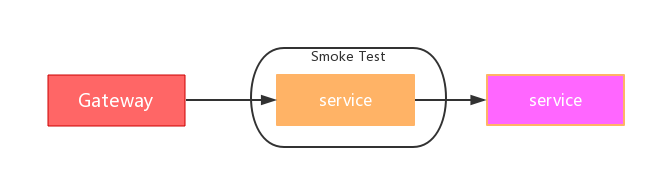
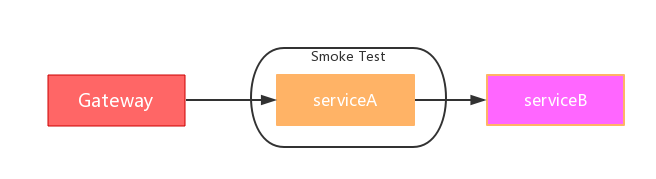
add smoke test

Changed region(s): [[0.7927, 0.5307, 0.9146, 0.6145], [0.4573, 0.5307, 0.5793, 0.6145]]

diff --git a/_posts/technology/micro-service/2018-12-10-06-test-in-micro-service-03-smoke-test.md b/_posts/technology/micro-service/2018-12-10-06-test-in-micro-service-03-smoke-test.md
@@ -1,0 +1,155 @@
+---
+layout: post
+title:  微服务架构下的测试之(三)-冒烟測試
+date:   2018-12-10 09:58:00 +0800
+categories: 技术文档
+tag: 微服务
+---
+
+* content
+{:toc}
+
+
+冒烟測試（Smoke Test）
+=============
+
+冒烟測試（Smoke Test） ： 这一术语源自硬件行业。对一个硬件或硬件组件进行更改或修复后，直接给设备加电。如果没有冒烟，则该组件就通过了测试。在软件中，冒烟测试设计用于确认代码中的更改会按预期运行，且不会破坏整个版本的稳定性。
+
+在微服務的架構下，我們可以使用冒烟測試來保證单个微服务在不依赖其他服务（其他服务在此处包含其他微服务或者其他的中间件）的前提下，其本身是正常运行的。
+
+
+测试方案
+=============
+
+举个例子，我们有三个微服务，一个是Gateway， 一个是ServiceA， 一个是ServiceB，它们的调用关系如下图。 现在要上线的是ServiceA，我们需要保证的是在不依赖ServiceB的情况下，ServiceA可以正常启动，部署和运行。
+
+![](/images/blog/micro-service/06-smoke-test/01-Smoke-Test.png)
+
+针对冒烟测试可以搭配使用[MockMvc](https://docs.spring.io/spring/docs/current/spring-framework-reference/testing.html)和[WireMock](http://wiremock.org/)来实现。
+
+
+项目代码
+=============
+
+还是拿之前的Product项目来说明，ProductService是维护商品信息的，其中的Controller层代码如下。
+
+ProductController
+-------------
+
+{% highlight java %}
+@RestController
+@RequestMapping("/product")
+public class ProductController {
+
+	@Autowired
+	private ProductService productService;
+
+	@PostMapping("/all")
+	public @ResponseBody List<Product> getProduct(@RequestBody List<Integer> productIds) {
+		return productService.getProducts(productIds);
+	}
+
+}
+{% endhighlight %}
+
+
+测试代码
+=============
+
+那么我们就可以使用 [MockMVC](https://docs.spring.io/spring/docs/current/spring-framework-reference/testing.html) 对这个项目进行测试，如下
+
+pom.xml
+-------------
+
+{% highlight xml %}
+<dependency>
+	<groupId>org.springframework.boot</groupId>
+	<artifactId>spring-boot-starter-test</artifactId>
+	<scope>test</scope>
+</dependency>
+<dependency>
+	<groupId>com.github.tomakehurst</groupId>
+	<artifactId>wiremock</artifactId>
+	<version>2.1.12</version>
+	<scope>test</scope>
+</dependency>
+{% endhighlight %}
+
+ProductControllerTest.java
+-------------
+
+{% highlight java %}
+package com.freud.test.product.ut.controller;
+
+import java.util.ArrayList;
+import java.util.List;
+
+import org.junit.Assert;
+import org.junit.Test;
+import org.junit.runner.RunWith;
+import org.mockito.InjectMocks;
+import org.mockito.Mock;
+import org.mockito.Mockito;
+import org.mockito.junit.MockitoJUnitRunner;
+
+import com.freud.test.product.bean.Product;
+import com.freud.test.product.controller.ProductController;
+import com.freud.test.product.service.ProductService;
+
+@RunWith(MockitoJUnitRunner.class)
+public class ProductControllerTest {
+
+	@InjectMocks
+	private ProductController productController;
+
+	@Mock
+	private ProductService productService;
+
+	@Test
+	public void testGetProduct() {
+
+		List<Product> products = new ArrayList<Product>();
+		Product p1 = new Product();
+		p1.setId(1);
+		p1.setName("Shoes");
+		p1.setDescription("Beautiful shoes");
+		p1.setStorage(10);
+		products.add(p1);
+
+		Product p2 = new Product();
+		p2.setId(2);
+		p2.setName("T-shirt");
+		p2.setDescription("Cheap T-shirt");
+		p2.setStorage(20);
+		products.add(p2);
+		Mockito.when(productService.getProducts(Mockito.any(List.class))).thenReturn(products);
+
+		List<Integer> productIds = new ArrayList<>();
+		productIds.add(new Integer(1));
+		productIds.add(new Integer(2));
+
+		List<Product> response = productController.getProduct(productIds);
+
+		Assert.assertNotNull(response);
+		Assert.assertEquals(2, response.size());
+		Assert.assertEquals(new Integer(1), response.get(0).getId());
+		Assert.assertEquals(new Integer(2), response.get(1).getId());
+	}
+}
+{% endhighlight %}
+
+
+完整代码
+=============
+
+请参照 GITHUB [ProductControllerTest.java](https://github.com/luoyan35714/TestInMicroServices/blob/master/ms-product/src/test/java/com/freud/test/product/ut/controller/ProductControllerTest.java)
+
+
+參考資料
+=============
+
+单元测试 : [https://baike.baidu.com/item/%E5%8D%95%E5%85%83%E6%B5%8B%E8%AF%95](https://baike.baidu.com/item/%E5%8D%95%E5%85%83%E6%B5%8B%E8%AF%95)
+
+MockMvc : [https://docs.spring.io/spring/docs/current/spring-framework-reference/testing.html](https://docs.spring.io/spring/docs/current/spring-framework-reference/testing.html)
+
+WireMock : [http://wiremock.org/](http://wiremock.org/)

diff --git a/_posts/technology/micro-service/2018-12-04-04-test-in-micro-service-01-overall.md b/_posts/technology/micro-service/2018-12-04-04-test-in-micro-service-01-overall.md
@@ -45,10 +45,10 @@ tag: 微服务
 
 以下只针对Java的技术来说，不同的测试我们可以采用如下的技术来实现。
 
-| 单元测试 | Mockito     |
-| 冒烟测试 | MockMvc     |
-| 集成测试 | RestAssured |
-| BDD      | Cucumber    |
+| 单元测试 	| Mockito				|
+| 冒烟测试 	| MockMvc + WireMock	|
+| 集成测试 	| RestAssured 			|
+| BDD		| Cucumber    			|
 
 參考資料
 =============
